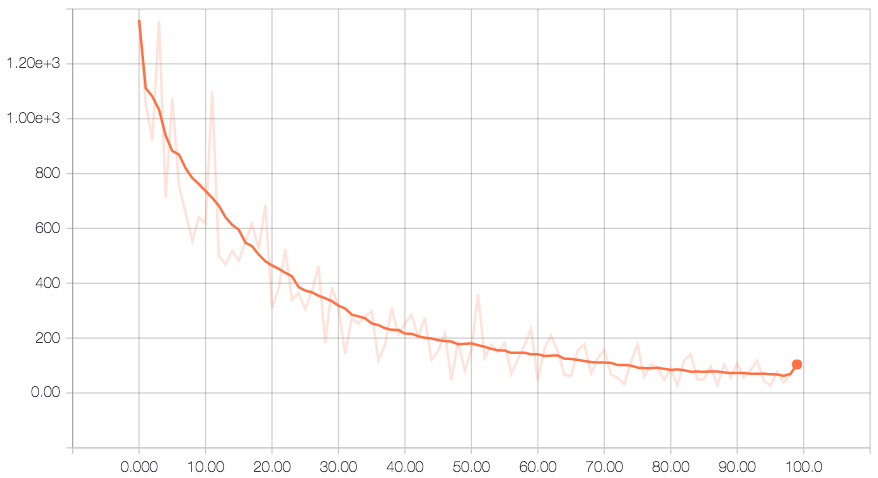
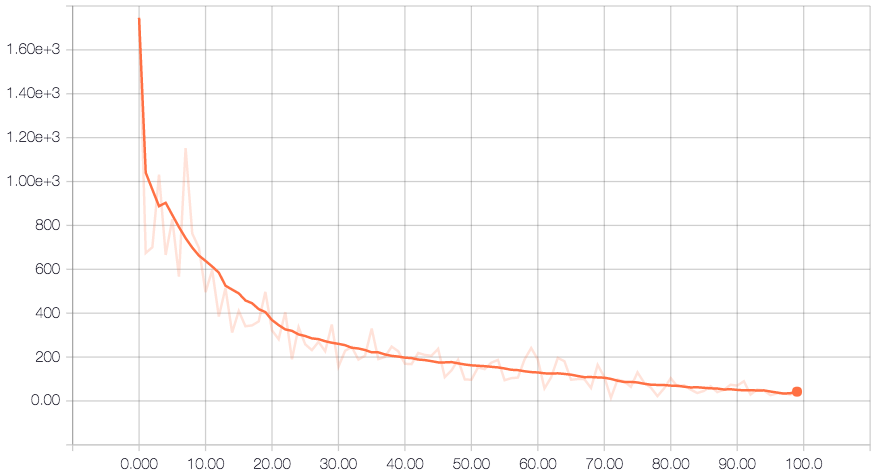
Tidy and add extra images

diff --git a/train.py b/train.py
@@ -91,24 +91,6 @@ def get_next_training_batch(size):
 
   return batch_x, batch_y
 
-def get_next_single_batch(size):
-  """
-    Returns a batch of training examples from fold1 only. Batch is of size specified 
-    and on a moving window through fold1. When the fold is exhausted it will restart.
-
-    Args:
-
-    Returns:
-        array, array: A tuple containing arrays of (features, labels)
-    """
-  if (folds[0] <= 0):
-    folds[0] = len(fold1_features)
-
-  batch_x, batch_y = slice(folds[0], fold1_features, fold1_labels, size)
-  folds[0] = max(folds[0] - size, 0)
-
-  return batch_x, batch_y
-
 def get_next_validation_batch(size):
   """
     Returns a batch of validation examples from fold4. Batch is of size specified 
@@ -223,8 +205,7 @@ train_writer = tf.summary.FileWriter(log_dir, graph=tf.get_default_graph())
 merged = tf.summary.merge_all()
 
 for i in range(training_epochs):
-  # batch_x, batch_y = get_next_training_batch(batch_size)
-  batch_x, batch_y = get_next_single_batch(batch_size)
+  batch_x, batch_y = get_next_training_batch(batch_size)
 
   if i%sample_size == 0:
     train_accuracy = accuracy.eval(feed_dict={x:batch_x, y_:batch_y, keep_prob: 1.0})

diff --git a/README.md b/README.md
@@ -1,5 +1,5 @@
 # Whatson
-**Automated Audio Content Analysis Using Convolutional Deep Neural Networks**
+**_Automated Audio Content Analysis Using Convolutional Deep Neural Networks_**
 
 Whatson is a prototype built as part of my MSc thesis to analyse pre-classified audio samples from radio broadcasts and use this to build a Convolutional Neural Network to predict these classes when presented with further samples from radio broadcasts. This research is to determine if Convolutional Neural Networks are an appropriate method of classifing audio.
 
@@ -61,11 +61,10 @@ Use training and validation datasets from the `data` directory to train a convol
 Saves model in `model` directory. 
 * `epochs` - number of training iterations
 * `batch` - number of examples to supply in each training epoch 
-* `sample` - how often the current cost is returned to the console/stored for plotting (if `--plot` supplied)
-* `plot` - supplied if a cost history graph is required or omitted if not.
+* `sample` - how often the current cost is returned to the console
 
 ```
-python3 train.py --epochs=2000 --batch=50 --sample_size=10 --plot
+python3 train.py --epochs=2000 --batch=50 --sample_size=10
 ```
 Logs during training will be created in the `log` subdirectory, these can be visualised with [TensorBoard](https://github.com/tensorflow/tensorflow/blob/master/tensorflow/tensorboard/README.md)
 
@@ -79,10 +78,10 @@ tensorboard --logdir=log/
 View results at `http://localhost:6006/`
 
 ![Accuracy Plot](https://github.com/betandr/whatson/blob/master/images/accuracy.png)
-_Accuracy_
+_Accuracy Plot_
 
 ![Cross Entropy Plot](https://github.com/betandr/whatson/blob/master/images/cross_entropy.png)
-_Cross Entropy_
+_Cross Entropy Plot_
 
 ## Deactivating Tensorflow
 
